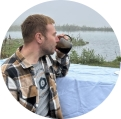
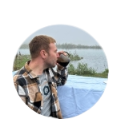
fix: myPhoto

diff --git a/cv.md b/cv.md
@@ -5,7 +5,7 @@
 + **Email address:** acer.aspire.2017@yandex.ru
 + **telegramm:** [Stanislav Kazakov](http://t.me/koslour_r)
 + **GitHub:** [Koslour](https://github.com/Koslour)
-![myPhoto](myPhoto.png)
+![myPhoto](myPhoto.jpg "I")
 ##  About me:
 I am 25 years old. I work as an engineer in a field slightly related to programming. But it's very secret, and I can't tell you about it. I have not worked in the IT field before, but I have a little idea about this profession. I'm like a samurai, I don't have a goal, there's only a way. 
 
